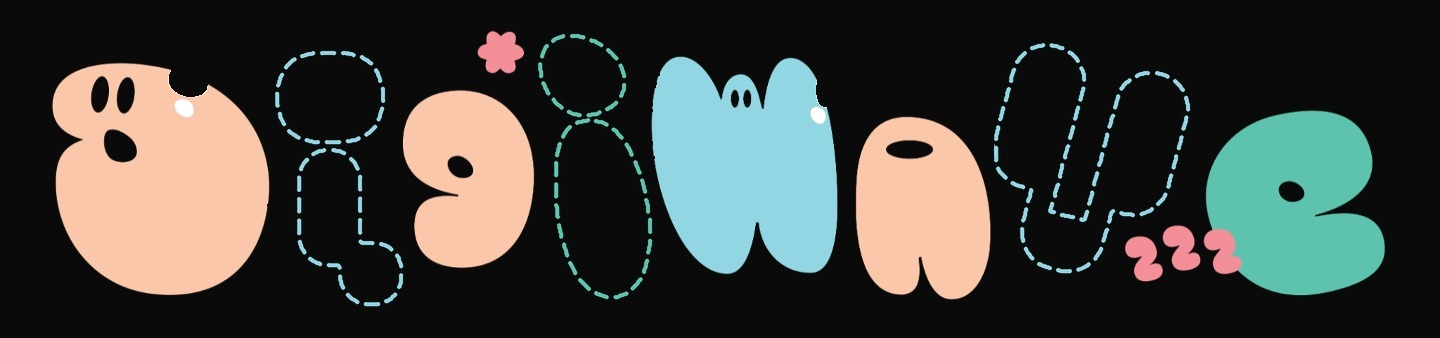
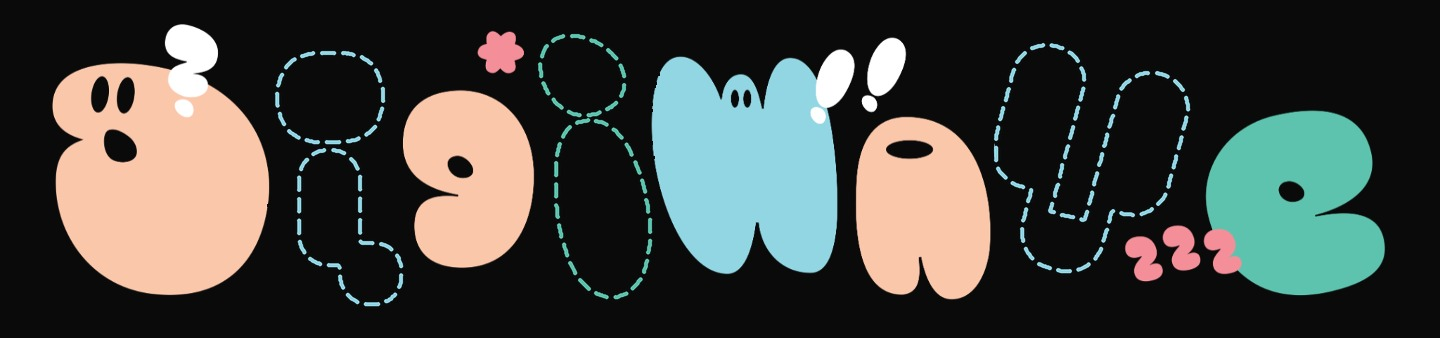
Fix white accent marks on hidden mission card, fit A/B images without cropping

Changed region(s): [[0.5625, 0.1183, 0.6562, 0.3254], [0.0938, 0.0592, 0.1562, 0.2959]]

diff --git a/Main.dc.html b/Main.dc.html
@@ -160,7 +160,7 @@
 
     <div class="zones-grid">
       <div style="background: #1A1A1A; border-radius: 16px; overflow: hidden;">
-        <img loading="lazy" src="./assets/zone-entrance-corridor.jpg" alt="入場光廊展區示意圖：觀眾照片與角色合成於歡迎牆面" style="width: 100%; height: 280px; object-fit: cover; object-position: center; display: block;">
+        <img loading="lazy" src="./assets/zone-entrance-corridor.jpg" alt="入場光廊展區示意圖：觀眾照片與角色合成於歡迎牆面" style="width: 100%; height: 280px; object-fit: contain; background: #0A0A0A; display: block;">
         <div style="padding: 28px;">
           <span style="display: inline-flex; align-items: center; justify-content: center; width: 28px; height: 28px; border-radius: 50%; background: #F5DAC0; color: #0A0A0A; font-family: 'Baloo 2', sans-serif; font-weight: 700; font-size: 14px; margin-bottom: 14px;">A</span>
           <div style="font-weight: 700; font-size: 21px; margin-bottom: 12px; color: #F5DAC0;">入場光廊</div>
@@ -168,7 +168,7 @@
         </div>
       </div>
       <div style="background: #1A1A1A; border-radius: 16px; overflow: hidden;">
-        <img loading="lazy" src="./assets/zone-clip-machine.jpg" alt="夾走夾走夾展區示意圖" style="width: 100%; height: 280px; object-fit: cover; object-position: center; display: block;">
+        <img loading="lazy" src="./assets/zone-clip-machine.jpg" alt="夾走夾走夾展區示意圖" style="width: 100%; height: 280px; object-fit: contain; background: #0A0A0A; display: block;">
         <div style="padding: 28px;">
           <span style="display: inline-flex; align-items: center; justify-content: center; width: 28px; height: 28px; border-radius: 50%; background: #4FE3C1; color: #0A0A0A; font-family: 'Baloo 2', sans-serif; font-weight: 700; font-size: 14px; margin-bottom: 14px;">B</span>
           <div style="font-weight: 700; font-size: 21px; margin-bottom: 12px; color: #4FE3C1;">夾走夾走夾</div>

diff --git a/index.html b/index.html
@@ -160,7 +160,7 @@
 
     <div class="zones-grid">
       <div style="background: #1A1A1A; border-radius: 16px; overflow: hidden;">
-        <img loading="lazy" src="./assets/zone-entrance-corridor.jpg" alt="入場光廊展區示意圖：觀眾照片與角色合成於歡迎牆面" style="width: 100%; height: 280px; object-fit: cover; object-position: center; display: block;">
+        <img loading="lazy" src="./assets/zone-entrance-corridor.jpg" alt="入場光廊展區示意圖：觀眾照片與角色合成於歡迎牆面" style="width: 100%; height: 280px; object-fit: contain; background: #0A0A0A; display: block;">
         <div style="padding: 28px;">
           <span style="display: inline-flex; align-items: center; justify-content: center; width: 28px; height: 28px; border-radius: 50%; background: #F5DAC0; color: #0A0A0A; font-family: 'Baloo 2', sans-serif; font-weight: 700; font-size: 14px; margin-bottom: 14px;">A</span>
           <div style="font-weight: 700; font-size: 21px; margin-bottom: 12px; color: #F5DAC0;">入場光廊</div>
@@ -168,7 +168,7 @@
         </div>
       </div>
       <div style="background: #1A1A1A; border-radius: 16px; overflow: hidden;">
-        <img loading="lazy" src="./assets/zone-clip-machine.jpg" alt="夾走夾走夾展區示意圖" style="width: 100%; height: 280px; object-fit: cover; object-position: center; display: block;">
+        <img loading="lazy" src="./assets/zone-clip-machine.jpg" alt="夾走夾走夾展區示意圖" style="width: 100%; height: 280px; object-fit: contain; background: #0A0A0A; display: block;">
         <div style="padding: 28px;">
           <span style="display: inline-flex; align-items: center; justify-content: center; width: 28px; height: 28px; border-radius: 50%; background: #4FE3C1; color: #0A0A0A; font-family: 'Baloo 2', sans-serif; font-weight: 700; font-size: 14px; margin-bottom: 14px;">B</span>
           <div style="font-weight: 700; font-size: 21px; margin-bottom: 12px; color: #4FE3C1;">夾走夾走夾</div>
